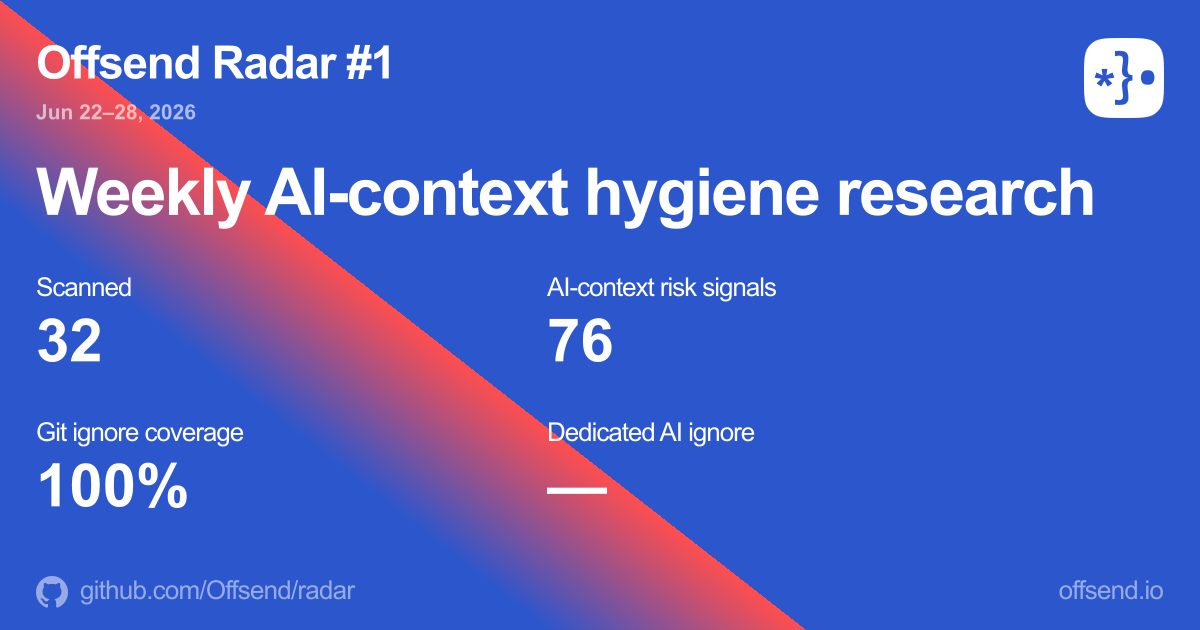
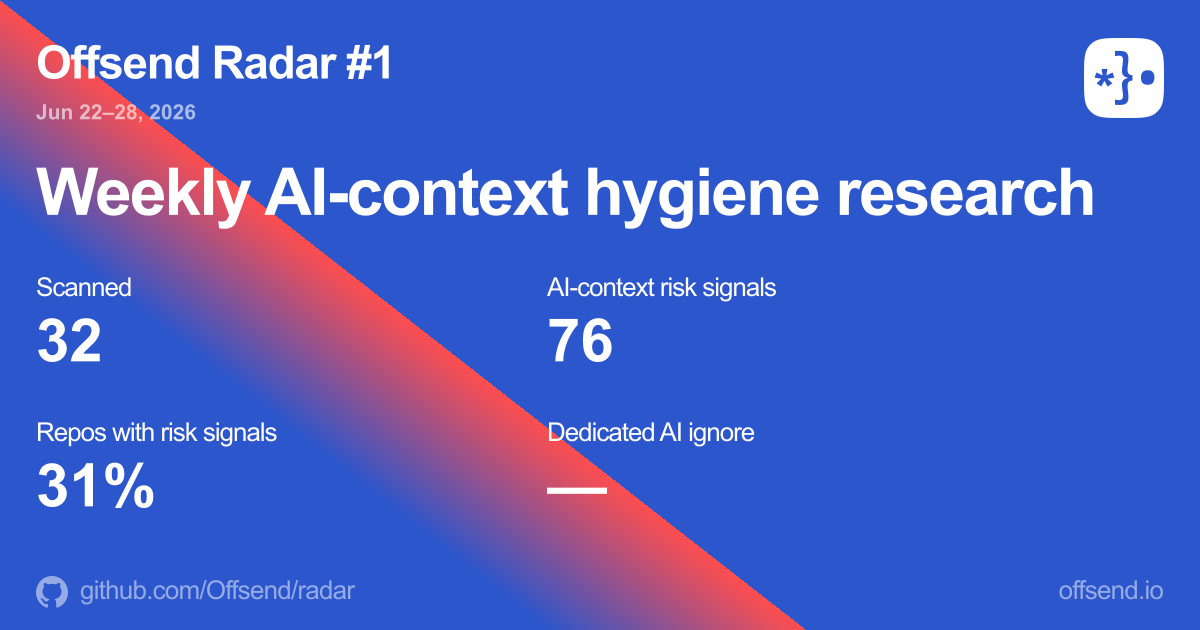
run ui/uix skill

Changed region(s): [[0.0308, 0.6635, 0.2467, 0.8143]]

diff --git a/site/src/styles/global.css b/site/src/styles/global.css
@@ -119,6 +119,15 @@ a.link:hover {
 	text-decoration: underline;
 }
 
+:focus-visible {
+	outline: 2px solid var(--blue);
+	outline-offset: 2px;
+}
+
+button:focus:not(:focus-visible) {
+	outline: none;
+}
+
 code,
 .mono {
 	font-family: var(--mono);
@@ -228,6 +237,12 @@ nav.top .brand {
 	font-weight: 600;
 	font-size: 15px;
 	letter-spacing: -0.01em;
+	cursor: pointer;
+	transition: opacity 0.15s ease;
+}
+
+nav.top .brand:hover {
+	opacity: 0.85;
 }
 
 nav.top .brand img {
@@ -385,22 +400,41 @@ nav.top .topnav-menu a {
 	font-size: 13px;
 	font-weight: 500;
 	color: var(--text-sub);
-	transition: color 0.15s;
+	cursor: pointer;
+	padding: 5px 10px;
+	margin: -5px -10px;
+	border-radius: var(--r-sm);
+	transition:
+		color 0.2s ease,
+		background 0.2s ease;
 }
 
-nav.top .topnav-menu a:hover,
+nav.top .topnav-menu a:hover {
+	color: var(--text);
+	background: oklch(0% 0 0 / 0.05);
+}
+
 nav.top .topnav-menu a.active {
 	color: var(--text);
+	background: var(--bg-2);
 }
 
 nav.top .topnav-menu a.topnav-github {
 	display: inline-flex;
 	align-items: center;
 	color: var(--text-sub);
+	cursor: pointer;
+	padding: 5px 10px;
+	margin: -5px -10px;
+	border-radius: var(--r-sm);
+	transition:
+		color 0.2s ease,
+		background 0.2s ease;
 }
 
 nav.top .topnav-menu a.topnav-github:hover {
 	color: var(--text);
+	background: oklch(0% 0 0 / 0.05);
 }
 
 nav.top .topnav-menu a.topnav-github svg {
@@ -551,9 +585,15 @@ nav.top .topnav-backdrop {
 	}
 
 	nav.top .topnav-menu a {
-		padding: 12px 0;
+		padding: 12px 10px;
+		margin: 0;
 		font-size: 15px;
 		border-bottom: 1px solid var(--border);
+		border-radius: var(--r-sm);
+	}
+
+	nav.top .topnav-menu a.active {
+		background: var(--bg-2);
 	}
 
 	nav.top .topnav-menu a:last-child {
@@ -621,6 +661,8 @@ footer .links {
 
 footer .links a {
 	color: var(--text-sub);
+	cursor: pointer;
+	transition: color 0.2s ease;
 }
 
 footer .links a:hover {
@@ -646,9 +688,10 @@ footer .links a:hover {
 
 .page-header h1 {
 	margin: 0 0 0.35rem;
-	font-size: 2rem;
-	font-weight: 600;
-	letter-spacing: -0.02em;
+	font-size: clamp(1.75rem, 4vw, 2.35rem);
+	font-weight: 700;
+	letter-spacing: -0.025em;
+	line-height: 1.15;
 }
 
 .page-header p {
@@ -677,6 +720,33 @@ footer .links a:hover {
 	padding: 1.25rem;
 	box-shadow:
 		0 1px 2px oklch(0% 0 0 / 0.04),
+		inset 0 1px 0 oklch(100% 0 0 / 0.85);
+}
+
+.card-featured {
+	background: oklch(100% 0 0 / 0.85);
+	border-color: oklch(44% 0.14 264 / 0.18);
+	border-left: 3px solid var(--brand-blue);
+	box-shadow:
+		0 2px 8px oklch(44% 0.14 264 / 0.06),
+		inset 0 1px 0 oklch(100% 0 0 / 0.9);
+}
+
+.card-cta {
+	background: var(--brand-gradient-soft);
+	border-color: oklch(44% 0.14 264 / 0.14);
+}
+
+.kpi-card {
+	transition:
+		border-color 0.2s ease,
+		box-shadow 0.2s ease;
+}
+
+.kpi-card:hover {
+	border-color: var(--border-2);
+	box-shadow:
+		0 4px 12px oklch(0% 0 0 / 0.06),
 		inset 0 1px 0 oklch(100% 0 0 / 0.85);
 }
 
@@ -757,6 +827,25 @@ tr:last-child td {
 	border-bottom: none;
 }
 
+tbody tr {
+	transition: background 0.15s ease;
+}
+
+tbody tr:hover {
+	background: oklch(44% 0.14 264 / 0.04);
+}
+
+td a {
+	color: var(--blue-text);
+	font-weight: 500;
+	cursor: pointer;
+	transition: color 0.15s ease;
+}
+
+td a:hover {
+	color: var(--brand-blue);
+}
+
 td a.mono {
 	color: var(--blue-text);
 	font-weight: 500;
@@ -798,6 +887,13 @@ td a.mono:hover {
 	background: var(--brand-gradient);
 	border-radius: 999px;
 	min-width: 2px;
+	transition: width 0.5s ease;
+}
+
+@media (prefers-reduced-motion: reduce) {
+	.bar-fill {
+		transition: none;
+	}
 }
 
 .bar-pct {
@@ -816,12 +912,37 @@ td a.mono:hover {
 	display: flex;
 	justify-content: space-between;
 	align-items: center;
-	padding: 0.5rem 0;
+	gap: 1rem;
+	padding: 0.55rem 0.35rem;
+	margin: 0 -0.35rem;
 	border-bottom: 1px solid var(--border);
+	border-radius: var(--r-sm);
+	transition: background 0.15s ease;
 }
 
 .trend-list li:last-child {
 	border-bottom: none;
+}
+
+.trend-list li:hover {
+	background: oklch(44% 0.14 264 / 0.04);
+}
+
+.trend-list a {
+	font-weight: 500;
+	color: var(--text);
+	cursor: pointer;
+	transition: color 0.15s ease;
+}
+
+.trend-list a:hover {
+	color: var(--blue-text);
+}
+
+.trend-list li > span {
+	font-size: 0.85rem;
+	color: var(--text-mut);
+	text-align: right;
 }
 
 .empty-state {
@@ -833,9 +954,5 @@ td a.mono:hover {
 @media (max-width: 768px) {
 	.container {
 		padding: 0 20px;
-	}
-
-	.page-header h1 {
-		font-size: 1.65rem;
 	}
 }

diff --git a/site/src/lib/summaries.ts b/site/src/lib/summaries.ts
@@ -69,6 +69,12 @@ export function getDedicatedAiIgnoreCoverage(summary: SummaryEntry): number | un
 	return undefined;
 }
 
+export function getReposWithRiskSignalsPct(summary: SummaryEntry): number {
+	const { cohort, totals } = summary.data;
+	if (cohort.scanComplete === 0) return 0;
+	return totals.reposWithExposures / cohort.scanComplete;
+}
+
 export type IgnoreCoverageStats = {
 	gitIgnorePct: number;
 	dedicatedAiIgnorePct: number | undefined;

diff --git a/scripts/generate_og_image.py b/scripts/generate_og_image.py
@@ -15,7 +15,6 @@ from pathlib import Path
 from typing import Any
 from xml.sax.saxutils import escape
 
-GIT_IGNORE_RULE_ID = "git-ignore"
 WEEK_RE = re.compile(r"^(\d{4})-W(\d{2})$")
 TEMPLATE_PATH = Path(__file__).resolve().parent / "templates" / "og-report.svg"
 OG_WIDTH = 1200
@@ -46,14 +45,13 @@ def format_optional_pct(value: float | None) -> str:
     return format_pct(value)
 
 
-def get_git_ignore_coverage(summary: dict[str, Any]) -> float | None:
-    stored = (summary.get("ignoreCoverage") or {}).get("gitIgnorePct")
-    if stored is not None:
-        return float(stored)
-    rule = (summary.get("ignoreFilesPresent") or {}).get(GIT_IGNORE_RULE_ID)
-    if rule and rule.get("total"):
-        return float(rule.get("pct") or 0)
-    return None
+def get_repos_with_risk_signals_pct(summary: dict[str, Any]) -> float | None:
+    cohort = summary.get("cohort") or {}
+    totals = summary.get("totals") or {}
+    scan_complete = int(cohort.get("scanComplete") or 0)
+    if scan_complete == 0:
+        return None
+    return float(totals.get("reposWithExposures") or 0) / scan_complete
 
 
 def get_dedicated_ai_ignore_coverage(summary: dict[str, Any]) -> float | None:
@@ -114,7 +112,7 @@ def build_template_values(
         "DATE_RANGE": escape(date_range or ""),
         "SCANNED": escape(str(cohort.get("scanComplete", 0))),
         "SIGNALS": escape(str(totals.get("totalExposedFiles", 0))),
-        "GIT_IGNORE": escape(format_optional_pct(get_git_ignore_coverage(summary))),
+        "REPOS_AFFECTED": escape(format_optional_pct(get_repos_with_risk_signals_pct(summary))),
         "AI_IGNORE": escape(format_optional_pct(get_dedicated_ai_ignore_coverage(summary))),
     }
 